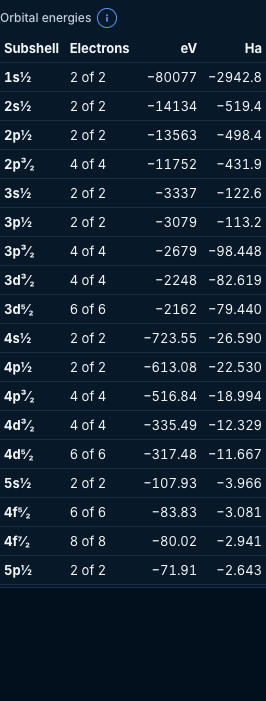
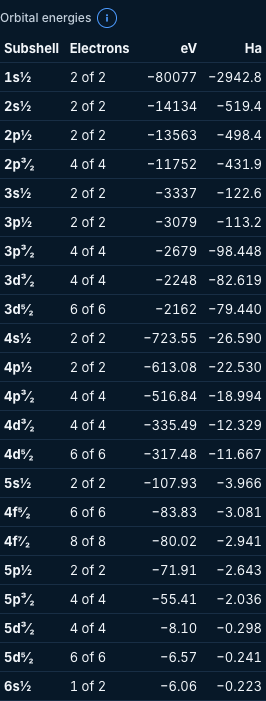
docs(design): final polish — finish-review captures

Changed region(s): [[0.0, 0.8388, 1.0, 1.0]]

diff --git a/docs/quantumlab/checks/polish/CHECKLIST.md b/docs/quantumlab/checks/polish/CHECKLIST.md
@@ -114,6 +114,29 @@ What a reader will notice, in the order they will meet it.
 - Ha 100 rounding cases (−99.9996 → "−100.0", −99.9994 → "−99.999") and the exact 8 px band gap are pinned.
 - act() warnings: not worked on (optional); the full run prints 47 "not wrapped in act" lines both before and after.
 
+## Finish-review captures
+
+Taken 2026-10-30 at `c23a31c` (its own Vite on 5411, headless Chromium, `--gl metal --jobs-stub --level research`, stopped after each run;
+0 page errors except the LVMO shot's three expected `ERR_BLOCKED_BY_CLIENT` lines). New tool options: scenes `bonds-b2`, `bonds-c2`
+(tools/design/scenes.json); `--clip '<selector> || <selector>' [--clip-pad px]` (a screenshot of the union of those elements' boxes)
+and the size `1280-tall` (1280 x 1500, so the Explore panel shows a whole energy table) in tools/design/shoot.mjs. No app code changed.
+
+- **MO box hover, N2 at 1280, Research, 2x** (`--hover "1πu orbital (2 of 2), 2 electrons"`, crop = the 1πu level plus 6 px): the right-hand box is hovered,
+  its partner at rest beside it. Surface-3 fill and the border-strong hairline on the three non-line edges read on both cards.
+  `mo-hover-n2-dark.png`, `mo-hover-n2-light.png`.
+- **Folded band with two levels.** B2 at its opening point (R = 3.005 a0) and C2 at its (R = 2.348 a0) both fold **1πg\* and 3σu\*** under
+  "≈ higher empty levels": two boxes then label, 8 px, one box then label, on one row. The MO section at 1280 and on a 390 phone
+  (Explore sheet), 2x. The band does **not** wrap on either: the diagram is a fixed 260 px wide on every layout (the same crop at 1280
+  and phone), and its two levels take 142 px of the 222 px row; the wrap path is pinned by `tests/bonds/mo_layout.test.ts`, not shown.
+  `mo-folded-band-b2-1280.png`, `mo-folded-band-b2-phone.png`, `mo-folded-band-c2-1280.png`, `mo-folded-band-c2-phone.png`.
+- **Full energy tables, 1280, Research, with spin-orbit** (Orbitals tab; the `table` element itself, on a 1500 px tall window so nothing scrolls):
+  gold's 22 rows, 1s½ to 6s½ (1 of 2); lead's 24 rows, 1s½ to 6p3/2 (1.33 of 4). Table 266 / 266 wide, no sideways scroll.
+  `table-gold-so-1280.png`, `table-lead-so-1280.png` (overwritten).
+- **LVMO Info at 232 px** (`computed-water-lvmo`, desktop, 2x, `--info-width 232`): cropped from the top of Info to the bottom of Properties'
+  Structure row, no empty background below. `facts-lvmo-info-232.png` (overwritten).
+- **Review shots** (git-ignored `.impeccable/review/`, not committed): Bonds N2 Research, `desktop.png` and `desktop-light.png` (1440 x 900),
+  `mobile.png` (390 x 844, Explore tab open) and `mobile-first-screen.png` (390 x 844, as the page opens), at this HEAD, 1x.
+
 ## Pending (controller)
 - [ ] **Finish review** — pending (controller).
 - [ ] **DESIGN.md** — pending (controller).
